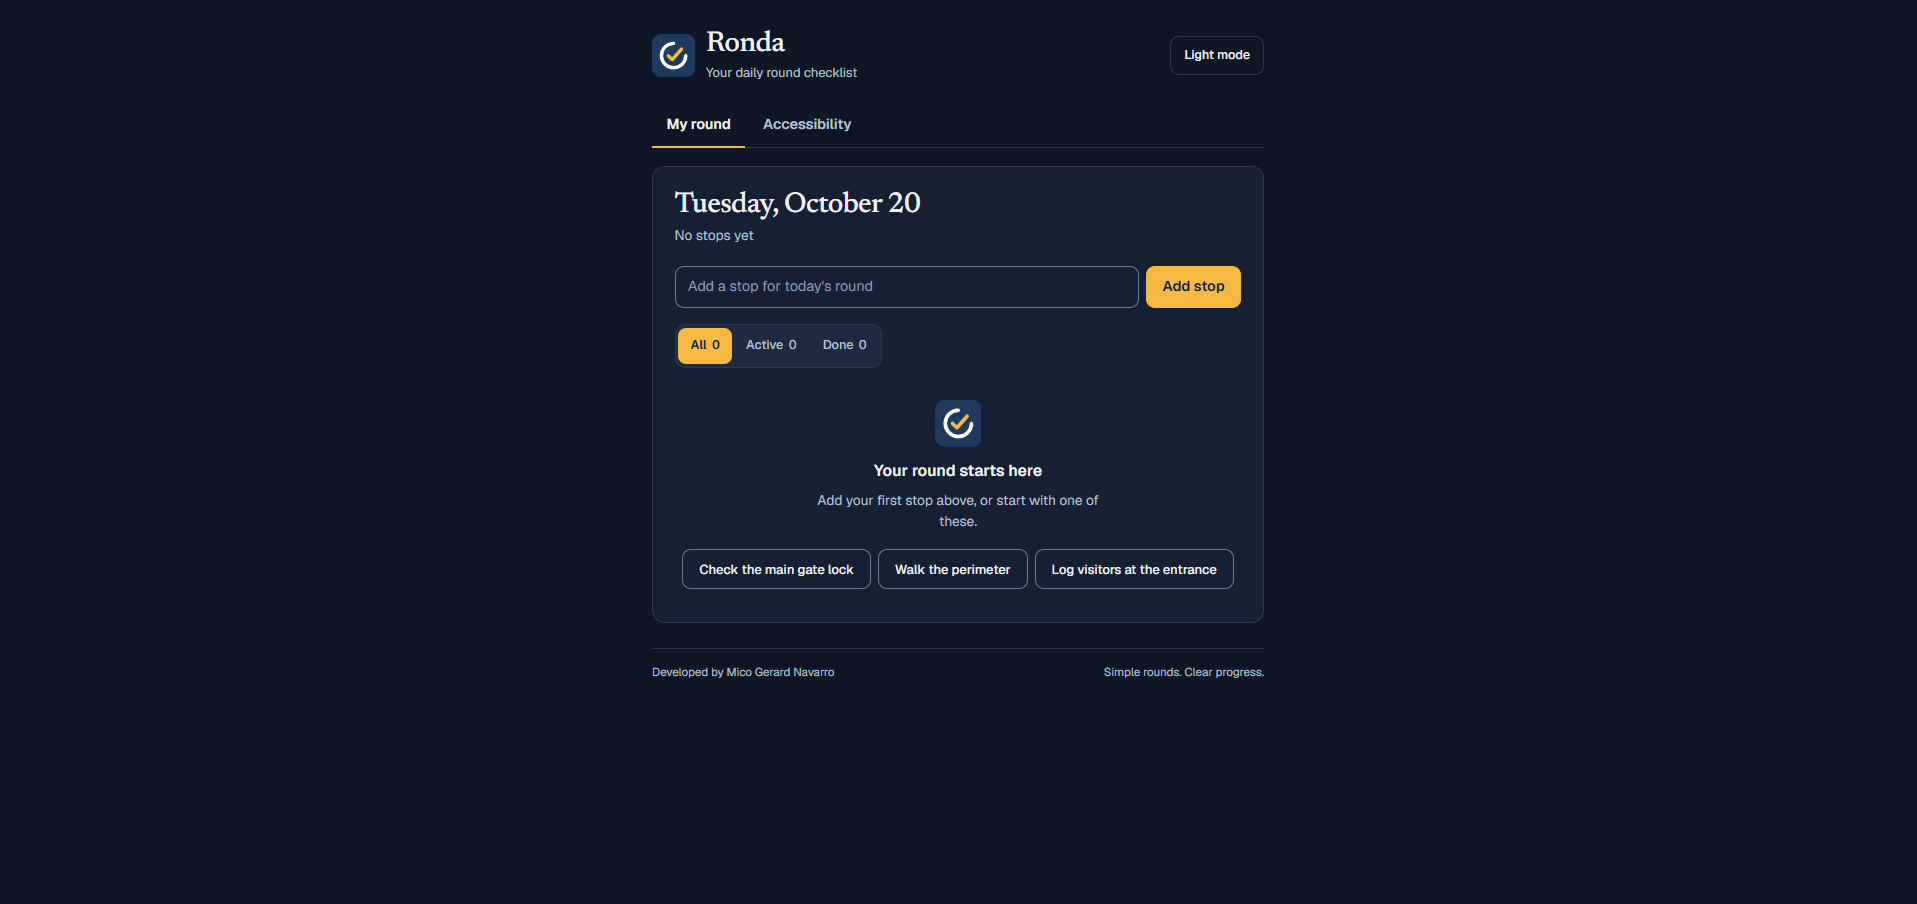
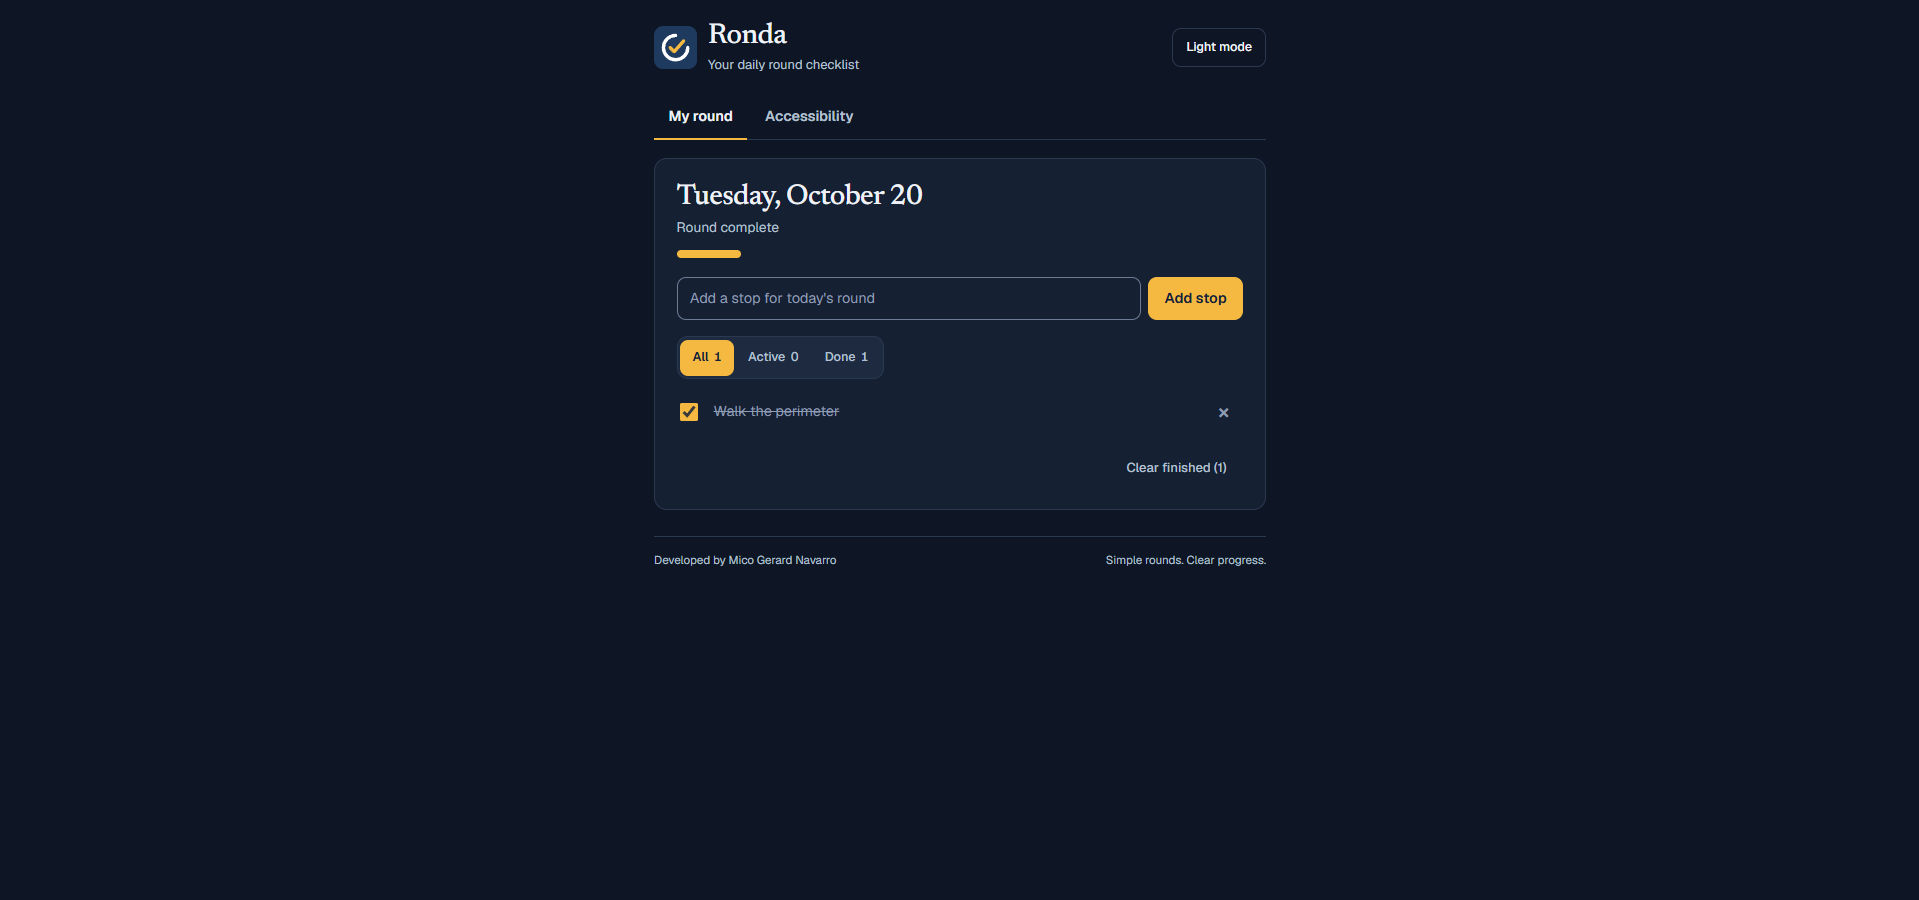
New Ronda screenshot

diff --git a/index.html b/index.html
@@ -35,7 +35,7 @@
       <h2 class="label">projects</h2>
 
       <article class="item reveal">
-        <div class="frame ronda"><img src="/images/ronda.png" width="1917" height="904" loading="lazy" alt="Ronda in dark mode: the My round tab with an add-a-stop field, All, Active and Done filters, and three suggested stops."></div>
+        <div class="frame ronda"><img src="/images/ronda.png" width="1919" height="900" loading="lazy" alt="Ronda in dark mode: the My round tab with a checklist of stops, some ticked, and All, Active and Done filters."></div>
         <div class="item-head">
           <svg viewBox="0 0 72 72" role="img" aria-label="Ronda mark"><rect width="72" height="72" fill="#1F3A5F"/><path d="M52.42 31.6A17 17 0 1 1 40.4 19.58" fill="none" stroke="#FFFFFF" stroke-width="4.5" stroke-linecap="round"/><path d="M27 36.5l6.5 6.5L46 29" fill="none" stroke="#F5B942" stroke-width="5" stroke-linecap="round" stroke-linejoin="round"/></svg>
           <h3>Ronda <span class="status">live</span></h3>

diff --git a/styles.css b/styles.css
@@ -99,3 +99,5 @@ article h1{font-size:2.6rem}
 .js .reveal.in .frame img{transform:scale(1)}
 @media (prefers-reduced-motion:reduce){.js .reveal,.js .reveal .frame img{opacity:1;transform:none;transition:none}.side nav a::before{transition:none}}
 @media (max-width:56rem){.home .shell{display:block}.side{position:static;height:auto;padding:3rem 0 0}.side nav ul{flex-direction:row;margin-top:2rem}.side .badge{margin-top:2rem}.home main{padding-top:3rem}.item{padding-bottom:4rem}}
+.frame.ronda{aspect-ratio:auto;background:#0C0C0F}
+.frame.ronda img{height:auto;object-fit:contain}
